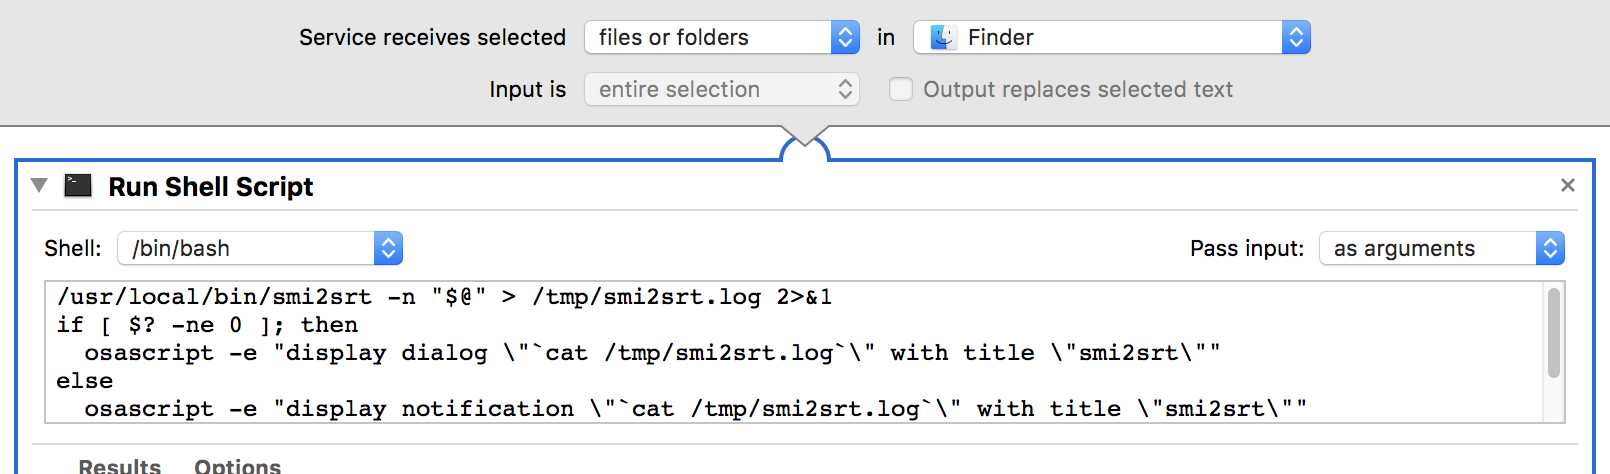
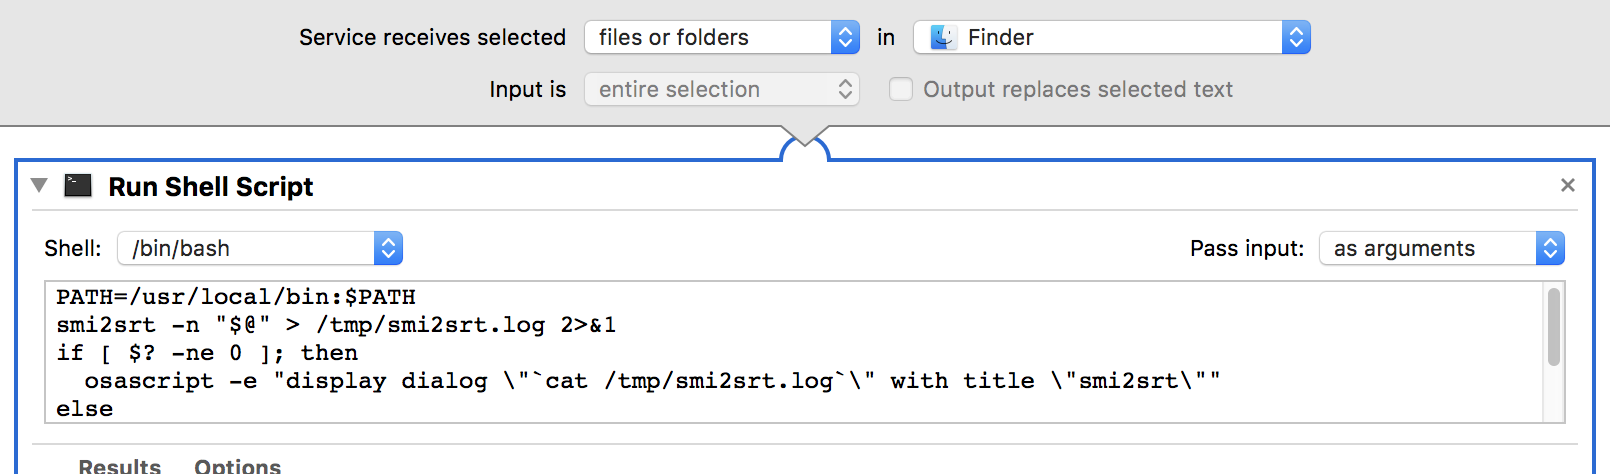
Fix ass file name handling. Fix search path in OS X automator service. Bump version to 1.0.2

Changed region(s): [[0.0311, 0.5907, 0.8075, 0.8861], [0.9627, 0.7679, 0.9938, 0.7975]]

diff --git a/smi2srt.js b/smi2srt.js
@@ -10,7 +10,7 @@ var iconv     = require('iconv-lite');
 var cheerio   = require('cheerio');
 
 argv
-    .version('1.0.1', '-v, --version')
+    .version('1.0.2', '-v, --version')
     .description('smi2srt by axfree')
     .arguments('<file>')
     .option('-e, --encoding <encoding>', 'specify the encoding of input file')
@@ -33,7 +33,7 @@ var srcName = optSrc;
 var srcExt;
 var srcLang;
 
-var sv = srcName.match(/^(.*?)(?:\.(en|eng|ko|kor|ja|jap))?(?:\.(smi|smil|srt))?$/);
+var sv = srcName.match(/^(.*?)(?:\.(en|eng|ko|kor|ja|jap))?(?:\.(smi|smil|srt|ass))?$/);
 if (sv) {
     srcName = sv[1];
     srcLang = sv[2];
